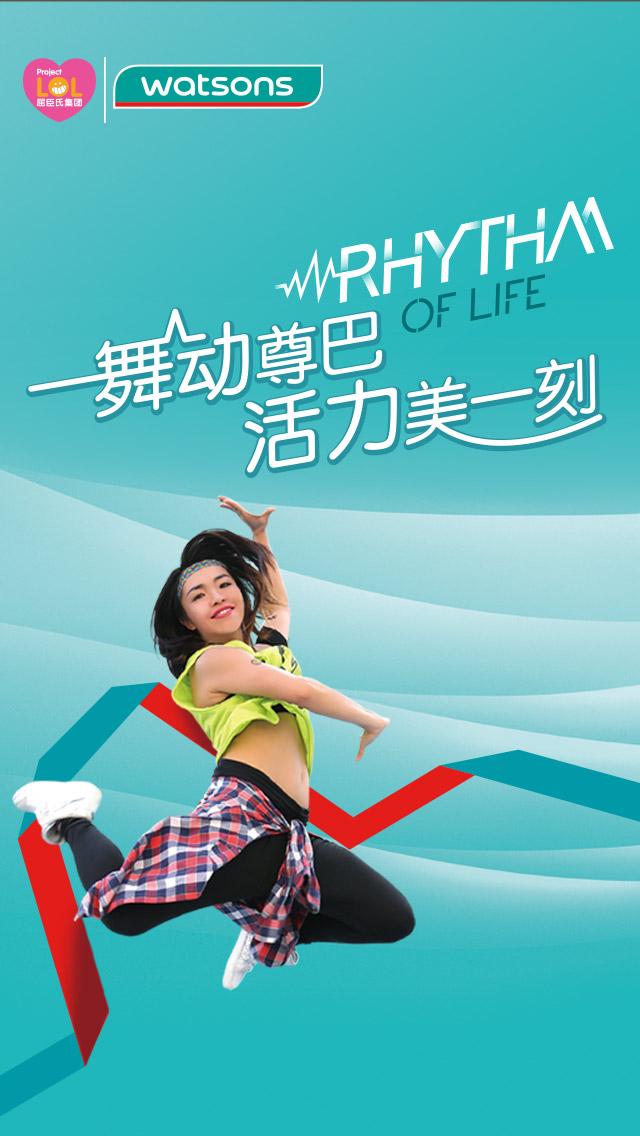
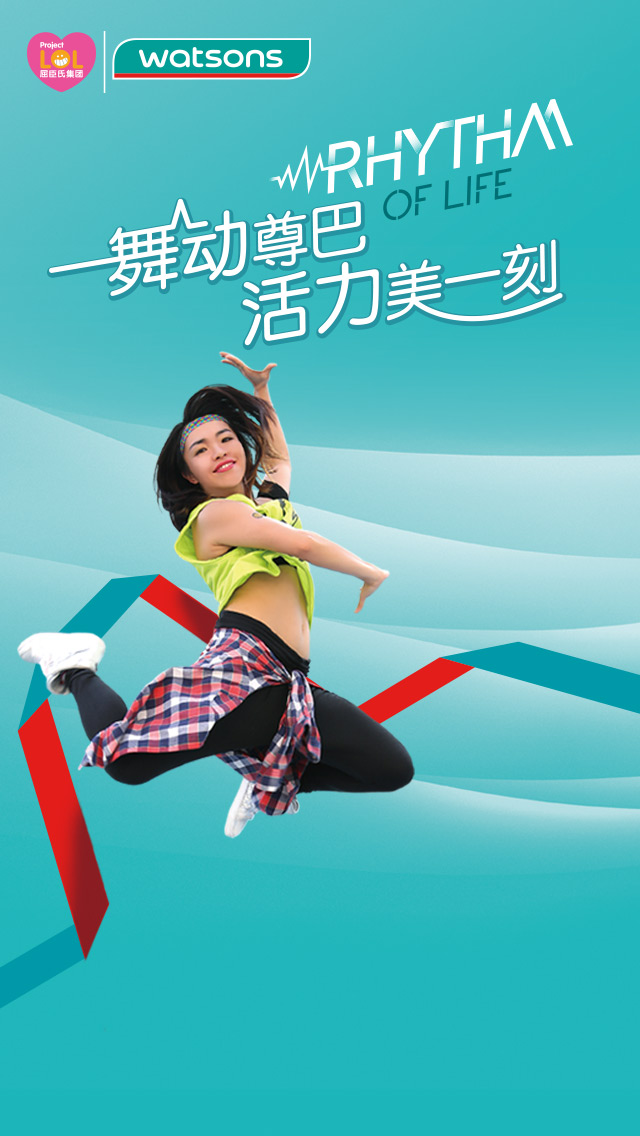
fe7

diff --git a/voting/templates/voting/photo_alls.html b/voting/templates/voting/photo_alls.html
@@ -24,6 +24,15 @@
 		    width: 100%;
 		    height: 5.25em;
 		}
+
+			#wrapper{
+				-webkit-overflow-scrolling:touch;
+				overflow-scrolling:touch;
+				overflow:auto;
+				    width: 100%;
+    position: absolute;
+    height: 100%;
+			}
     </style>
 </head>
 <body>
@@ -97,7 +106,15 @@
 		</div>
 
 <script src="{% static 'js/jquery-1.11.1.min.js' %}"></script>
-
+<script type="text/javascript">
+	
+	 var UA = navigator.userAgent;
+    var forIOS = function(){
+        if(!UA.match(/iPad/) && !UA.match(/iPhone/) && !UA.match(/iPod/)){return;}
+        if($('#wrapper').length){return;}
+        $('body').children().not('script').wrapAll('<div id="wrapper"></div>');
+    }();
+</script>
 <script type="text/javascript">
     $(document).ready(function(){
         var range = 1;             //距下边界长度/单位px
@@ -230,8 +247,47 @@
             		}
 	            	})
             	}else if(table_type=='new'){
-
             		
+            		$.ajax({
+            		url: 'http://test2.huocc.com/voting/pullboard/'+table_type+'/'+num+'/'+get_num+'/',
+            		type: 'GET',
+            		dataType: 'json',
+            		success:function(result){
+            			// console.log( typeof result);
+            			// console.log(result);
+            			// var data= eval("("+result+")");
+            			var s='';
+						$.each(result, function(i, item) {
+								// console.log(i)
+								// console.log(item)
+								s+='<li ouserid='+item.id+' >'
+								s+='	<div class="photo_all_bd_li_inner">'
+								s+='		<div class="photo_all_bd_pic">'
+								s+='			<div class="photo_all_bd_pic_jiao">'+item.ranking+'</div>'
+								s+='			<a href="javascript:void(0)"><img src=\"'+item.url+'\" alt=""></a>'
+								s+='		</div>'
+								s+='		<div class="photo_all_bd_pic_txt">'
+								s+='			<div class="photo_all_bd_pic_txt_tt">'
+								s+='				<img src=\"'+item.headimgurl+'\" alt="">'
+								s+='			</div>'
+								s+='			<div class="photo_all_bd_pic_txt_two">'
+								s+='				<div class="photo_all_bd_pic_txt_two_num">编号：<span class="ws_use_id">'+item.id+'</span></div>'
+								s+='				<div class="photo_all_bd_pic_txt_two_zan">点赞：<span>'+item.polls+'</span></div>'
+								s+='			</div>'
+								s+='		</div>'
+								s+='	</div>'
+								s+='</li>'
+
+						});
+
+						$('#Time_Arrangement').append(s);
+
+            			
+            		},
+            		error:function(){
+
+            		}
+	            	})
             	}
             	       	
             	

diff --git a/voting/templates/voting/photo_alls_inner.html b/voting/templates/voting/photo_alls_inner.html
@@ -9,6 +9,14 @@
 	<meta name="format-detection" content="email=no">
     <link rel="stylesheet" type="text/css" href="{% static 'css/reset.css' %}" />
     <link rel="stylesheet" type="text/css" href="{% static 'css/active.css' %}">
+    <style>
+	.ws_act_choose_page1 {
+	    height: auto;
+	    background-size: 100% 100%;
+	}
+
+
+    </style>
 	
 </head>
 <body>
@@ -16,7 +24,7 @@
 
 		<div class="all_page_padding all_page_padding2">
 				<div class="all_photo_hd">
-                    <img src="{% static 'img/photo_hd.png' %}" alt="">
+				                   <!--  <img src="{% static 'img/photo_hd.png' %}" alt=""> -->
 				</div>
 				<!-- <div class="icons_two">
 				                    <img src="{% static 'img/back.png' %}" alt="">
@@ -55,6 +63,11 @@
 <script src="{% static 'js/zepto.min.js' %}"></script>
 <script type="text/javascript">
  $(document).ready(function(){
+ 		var height = $(window).height();
+    	$(".ws_act_choose_page1").css({
+    		'min-height': height,
+    	});
+
 		var nowid=sessionStorage.getItem( 'cli_uerid' );
 			// console.log(nowid);
 			$.ajax({

diff --git a/voting/templates/voting/index.html b/voting/templates/voting/index.html
@@ -10,7 +10,7 @@
     <link rel="stylesheet" type="text/css" href="{% static 'css/reset.css' %}">
     <link rel="stylesheet" type="text/css" href="{% static 'css/ws_main.css' %}">
 	<style type="text/css">
-		
+		#wrapper{height:500px;-webkit-overflow-scrolling:touch;overflow:auto;}
 	</style>
 </head>
 <body>
@@ -29,10 +29,16 @@
 	</div>
     <script type="text/javascript" src="{% static 'js/zepto.min.js' %}"></script>
 	<script type="text/javascript">
-		// setTimeout(function(){
-  //               window.location.href='{% url "list" %}'
-		// },3000)
-	
+		setTimeout(function(){
+                window.location.href='{% url "list" %}'
+		},3000)
+		
+		 var UA = navigator.userAgent;
+    var forIOS = function(){
+        if(!UA.match(/iPad/) && !UA.match(/iPhone/) && !UA.match(/iPod/)){return;}
+        if($('#wrapper').length){return;}
+        $('body').children().not('script').wrapAll('<div id="wrapper"></div>');
+    }();
 
 	</script>
 </body>

diff --git a/voting/static/css/active.css b/voting/static/css/active.css
@@ -1,11 +1,9 @@
 .ws_act_choose_page1{
 	width: 100%;
-	/* height: 100%; */
+	height: 100%;
 	position: absolute;
 	background:#D1D1D1 url(../img/active_choose_bg2.jpg) no-repeat top center;
-	/* background-size: 100% auto; */
-	height: auto;
-	background-size: 100% 100%;
+	background-size: 100% auto;
 }
 .ws_act_choose_page1_txt{
 	/*padding-top: 24%;*/

diff --git a/voting/templates/voting/active_choose2.html b/voting/templates/voting/active_choose2.html
@@ -15,6 +15,14 @@
 	html{
 		background: #D1D1D1;
 	}
+	.all_page_padding {
+	    /*2016年5月13日11:53:22*/
+	    padding-bottom: 20%;
+	}
+	.ws_act_choose_page1 {
+	    height: auto;
+	    background-size: 100% 100%;
+	}
 	</style>
 </head>
 <body>

diff --git a/voting/templates/voting/main.html b/voting/templates/voting/main.html
@@ -128,7 +128,8 @@
 	</style>
 </head>
 <body style="">
-	<div id="all">
+	<!--  -->
+	<div id="all" >
 		<!-- 音乐 -->
 		<!-- class="music_icon music_icon_move" 下面的类-->
 		<div id="musecc" >
